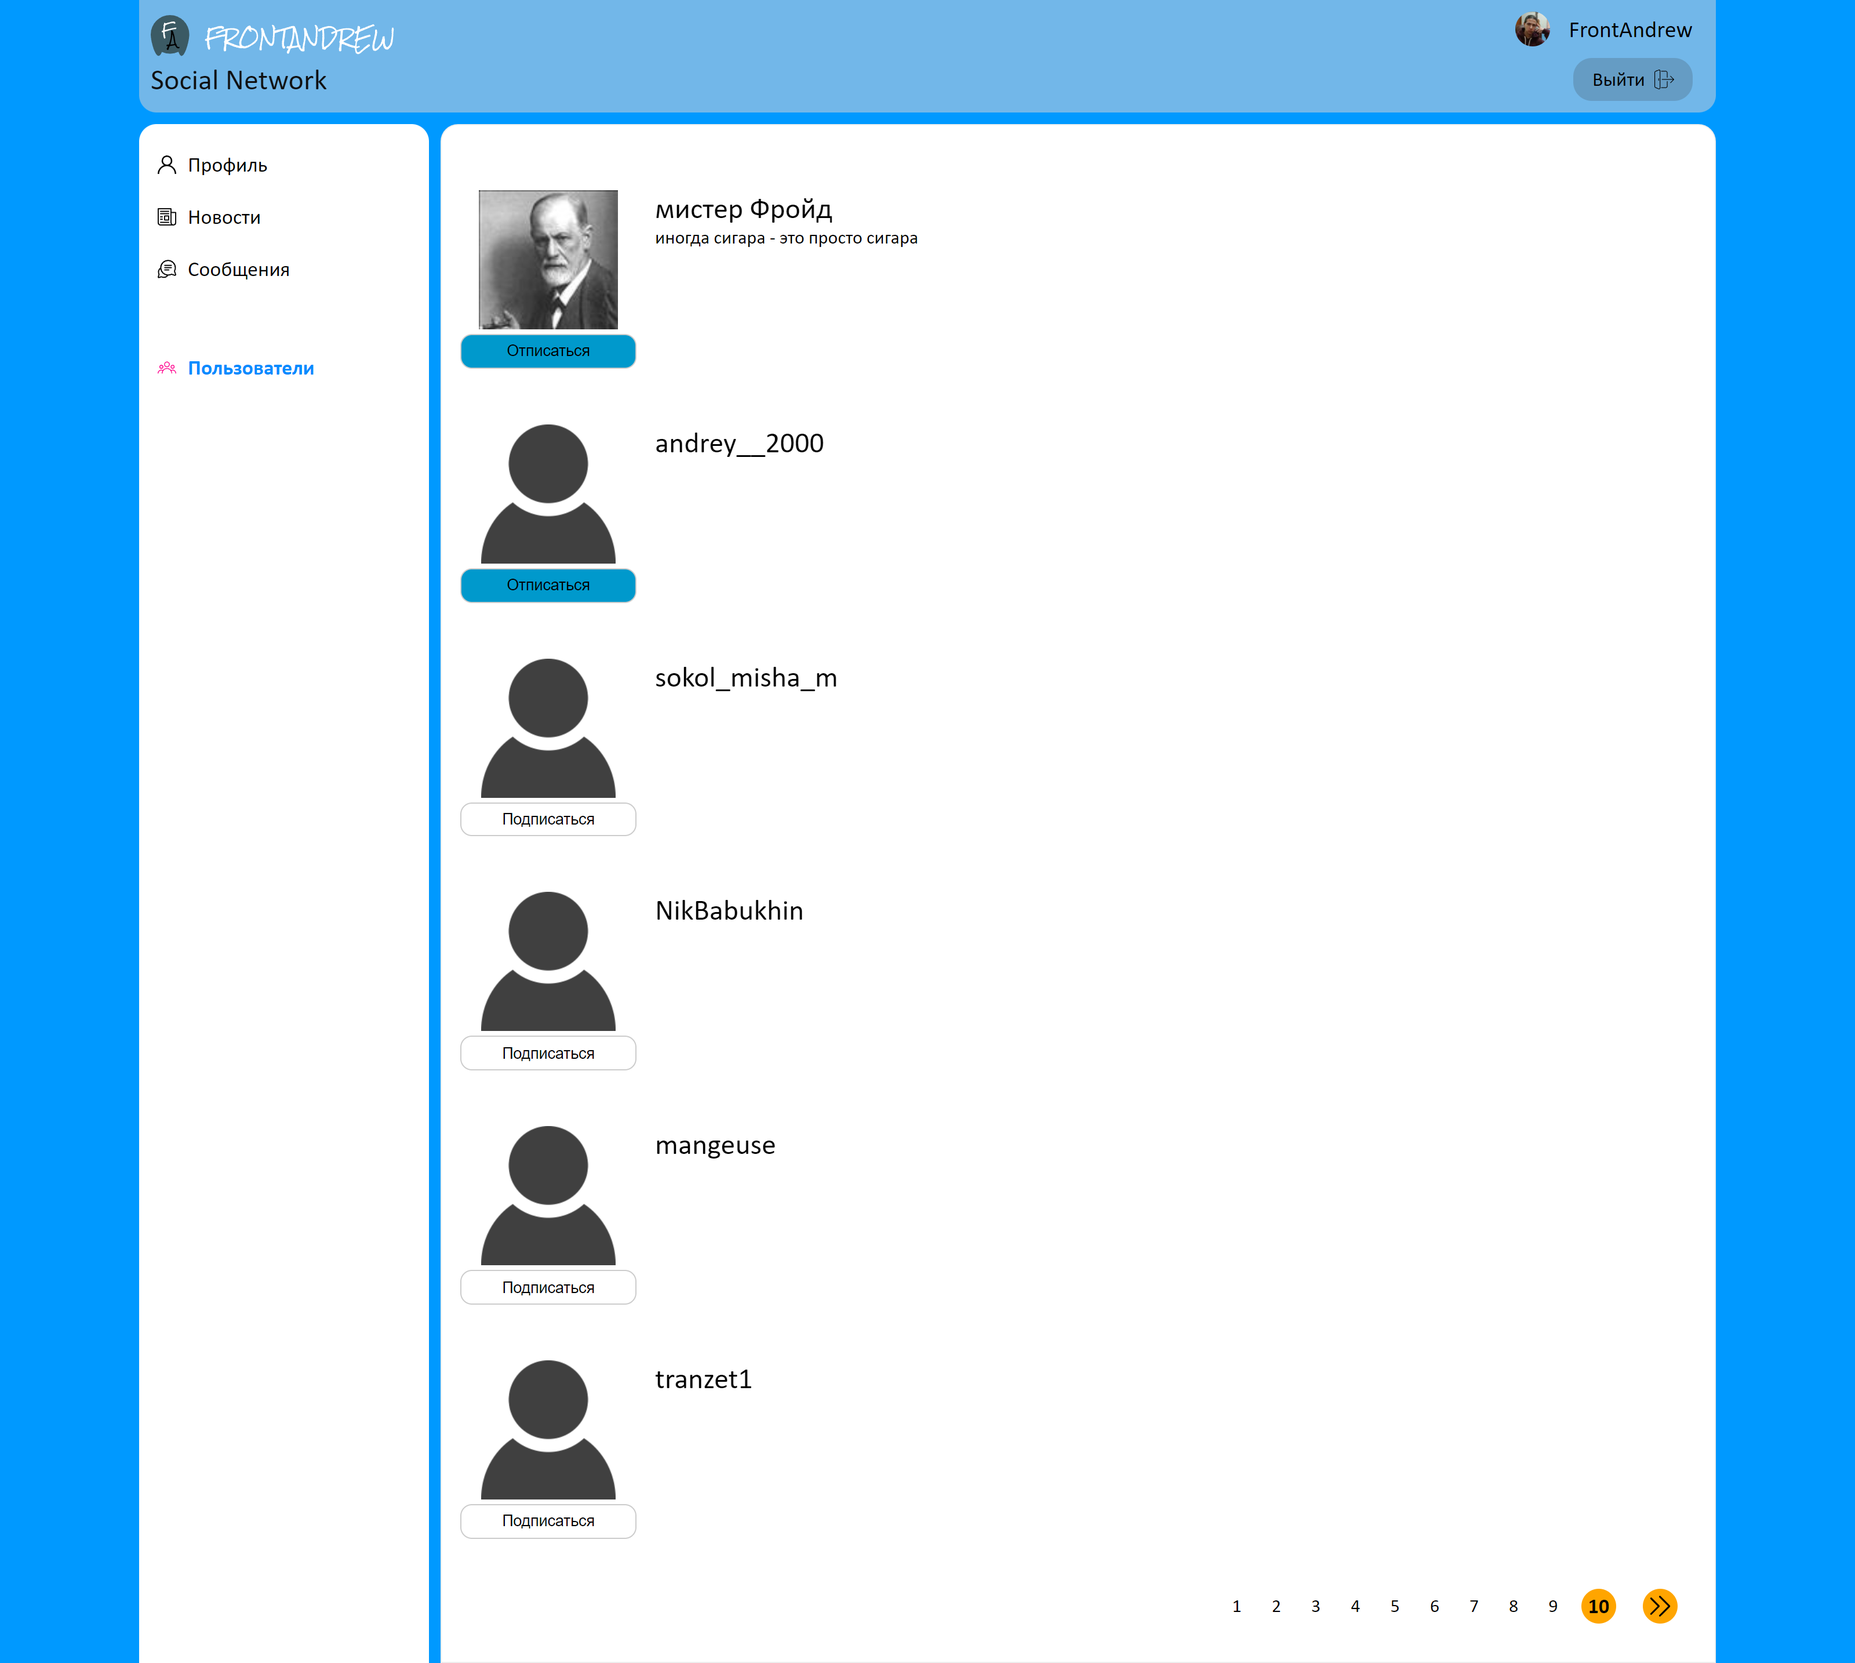
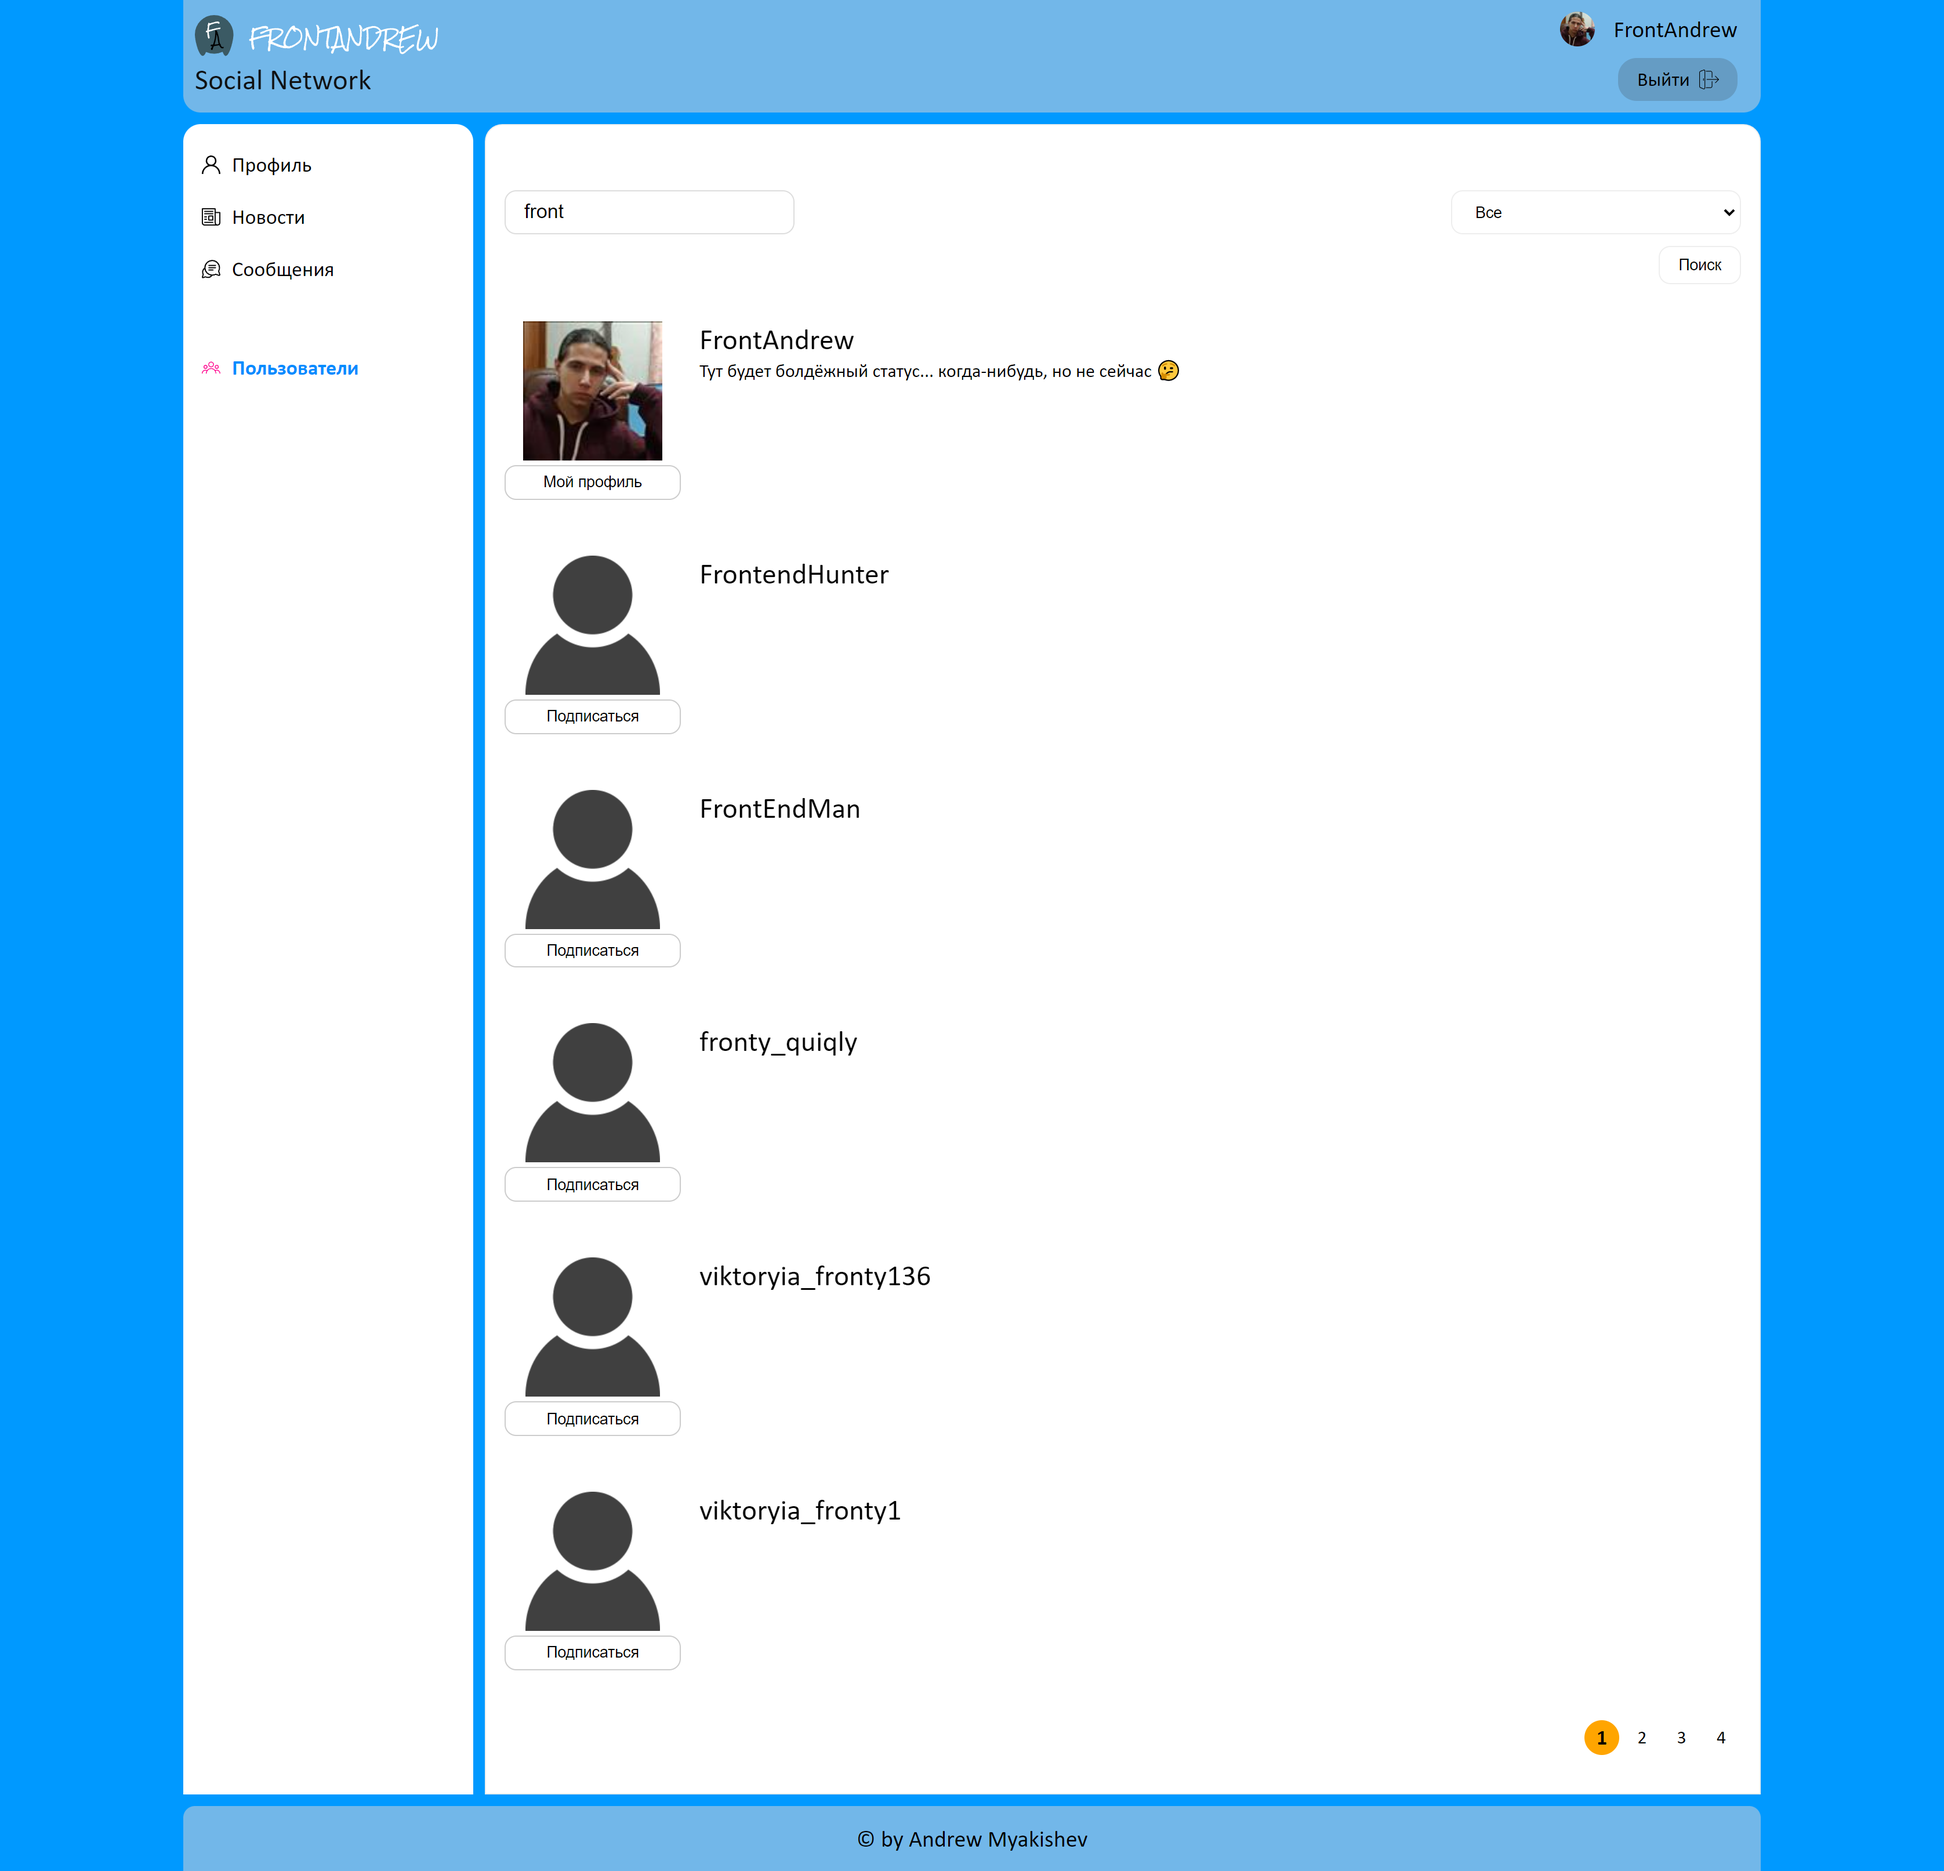
synchronized query and search

diff --git a/src/componetns/users/Users.tsx b/src/componetns/users/Users.tsx
@@ -1,5 +1,7 @@
 import React, { FC, useEffect } from 'react';
 import { useDispatch, useSelector } from 'react-redux';
+import { useLocation, useNavigate } from 'react-router-dom';
+import queryString, { ParsedQuery } from 'query-string';
 
 import classes from './Users.module.css';
 import User from './User';
@@ -17,8 +19,16 @@ import {
   getUsersSelector,
 } from '../../redux/user-selector';
 
+type IQuery = {
+  term?: string;
+  page?: string;
+  friend?: string;
+};
+
 const Users: FC = React.memo(() => {
   const dispatch = useDispatch();
+  const navigate = useNavigate();
+  const location = useLocation();
   const users = useSelector(getUsersSelector);
   const isFetching = useSelector(getFetchSelector);
   const usersCount = useSelector(getUsersCountSelector);
@@ -28,8 +38,27 @@ const Users: FC = React.memo(() => {
   const isFollowing = useSelector(getFollowSelector);
 
   useEffect(() => {
-    dispatch(getsUsers(currentPage, usersCount, filter));
+    const value = queryString.parse(location.search) as IQuery;
+    let actualPage = currentPage;
+    let actualFilter = filter;
+    if (!!value.page) actualPage = +value.page;
+    if (!!value.term) actualFilter = { ...actualFilter, term: value.term };
+    if (!!value.friend)
+      actualFilter = {
+        ...actualFilter,
+        friend: value.friend === 'null' ? null : value.friend === 'true' ? true : false,
+      };
+
+    dispatch(getsUsers(actualPage, usersCount, actualFilter));
   }, []);
+
+  useEffect(() => {
+    const query: IQuery = {};
+    if (!!filter.term) query.term = filter.term;
+    if (filter.friend !== null) query.friend = String(filter.friend);
+    if (currentPage !== 1) query.page = String(currentPage);
+    navigate('?' + queryString.stringify(query));
+  }, [usersCount, currentPage, filter]);
 
   const changePage = (pageNum: number) => {
     dispatch(getsUsers(pageNum, usersCount, filter));

diff --git a/src/componetns/users/FormSearchUsers.tsx b/src/componetns/users/FormSearchUsers.tsx
@@ -1,17 +1,24 @@
 import React, { FC } from 'react';
 import { Field, Form, Formik } from 'formik';
+import { useSelector } from 'react-redux';
+
 import { filterType } from '../../redux/reducer/user-reducer';
 import classes from './Users.module.css';
+import { getUsersFilter } from '../../redux/user-selector';
 
 interface IPropsType {
   onFilter: (filter: filterType) => void;
 }
+
+type FormFriendType = 'null' | 'true' | 'false';
 interface IFormValues {
   term: string;
-  friend: 'null' | 'true' | 'false';
+  friend: FormFriendType;
 }
 
 const FormSearchUsers: FC<IPropsType> = ({ onFilter }) => {
+  const filter = useSelector(getUsersFilter);
+
   const submitHandler = (
     values: IFormValues,
     { setSubmitting }: { setSubmitting: (setSubmitting: boolean) => void },
@@ -25,10 +32,18 @@ const FormSearchUsers: FC<IPropsType> = ({ onFilter }) => {
   };
   return (
     <div>
-      <Formik initialValues={{ term: '', friend: 'null' }} onSubmit={submitHandler}>
+      <Formik
+        enableReinitialize
+        initialValues={{ term: filter.term, friend: String(filter.friend) as FormFriendType }}
+        onSubmit={submitHandler}>
         {({ isSubmitting }) => (
           <Form className={classes.formSearch}>
-            <Field className={classes.searchInput} type='text' name='term' />
+            <Field
+              className={classes.searchInput}
+              type='text'
+              name='term'
+              placeholder='Поиск по имени'
+            />
             <Field as='select' name='friend'>
               <option value='null'>Все</option>
               <option value='true'>Мои подписки</option>

diff --git a/src/App.tsx b/src/App.tsx
@@ -12,6 +12,7 @@ import { initializeApp } from './redux/reducer/app-reducer';
 import Preloader from './componetns/common/preloader/Preloader';
 import PreloaderStart from './componetns/common/preloader/PreloaderStart';
 import { RootStateType } from './redux/store-redux';
+import Footer from './componetns/Footer/Footer';
 
 const ProfileContainer = React.lazy(() => import('./componetns/profile/ProfileContaner'));
 const MessagesConteiner = React.lazy(() => import('./componetns/messages/MessagesConteiner'));
@@ -19,7 +20,7 @@ const UsersContainer = React.lazy(() => import('./componetns/users/UsersContaine
 const Login = React.lazy(() => import('./componetns/login/Login'));
 
 interface IAppProps {}
-const App: FC<IAppProps> = props => {
+const App: FC<IAppProps> = () => {
   const initialized = useSelector((state: RootStateType) => state.app.initialized);
   const dispatch = useDispatch();
 
@@ -42,7 +43,7 @@ const App: FC<IAppProps> = props => {
             <Route path='/profile' element={<ProfileContainer />} />
             <Route path='/profile/:id' element={<ProfileContainer />} />
             <Route path='/messages/*' element={<MessagesConteiner />} />
-            <Route path='/users' element={<UsersContainer />} />
+            <Route path='/users*' element={<UsersContainer />} />
             <Route path='/music' element={<Music />} />
             <Route path='/news' element={<News />} />
             <Route path='/setting' element={<Setting />} />
@@ -50,6 +51,7 @@ const App: FC<IAppProps> = props => {
           </Routes>
         </Suspense>
       </main>
+      <Footer />
     </div>
   );
 };

diff --git a/src/componetns/Footer/Footer.tsx b/src/componetns/Footer/Footer.tsx
@@ -1,0 +1,19 @@
+import React from 'react';
+
+const Footer = () => {
+  return (
+    <footer
+      style={{
+        textAlign: 'center',
+        padding: '1rem ',
+        fontSize: '20px',
+        gridArea: 'footer',
+        background: 'rgb(114, 183, 233)',
+        borderRadius: '10px 10px 0 0',
+      }}>
+      © by Andrew Myakishev
+    </footer>
+  );
+};
+
+export default Footer;

diff --git a/src/App.css b/src/App.css
@@ -39,7 +39,8 @@ body {
   grid-gap: 10px;
   grid-template-areas:
     'header header'
-    'aside main';
+    'aside main'
+    'footer footer';
 }
 .content {
   border-radius: 15px 15px 0 0;
